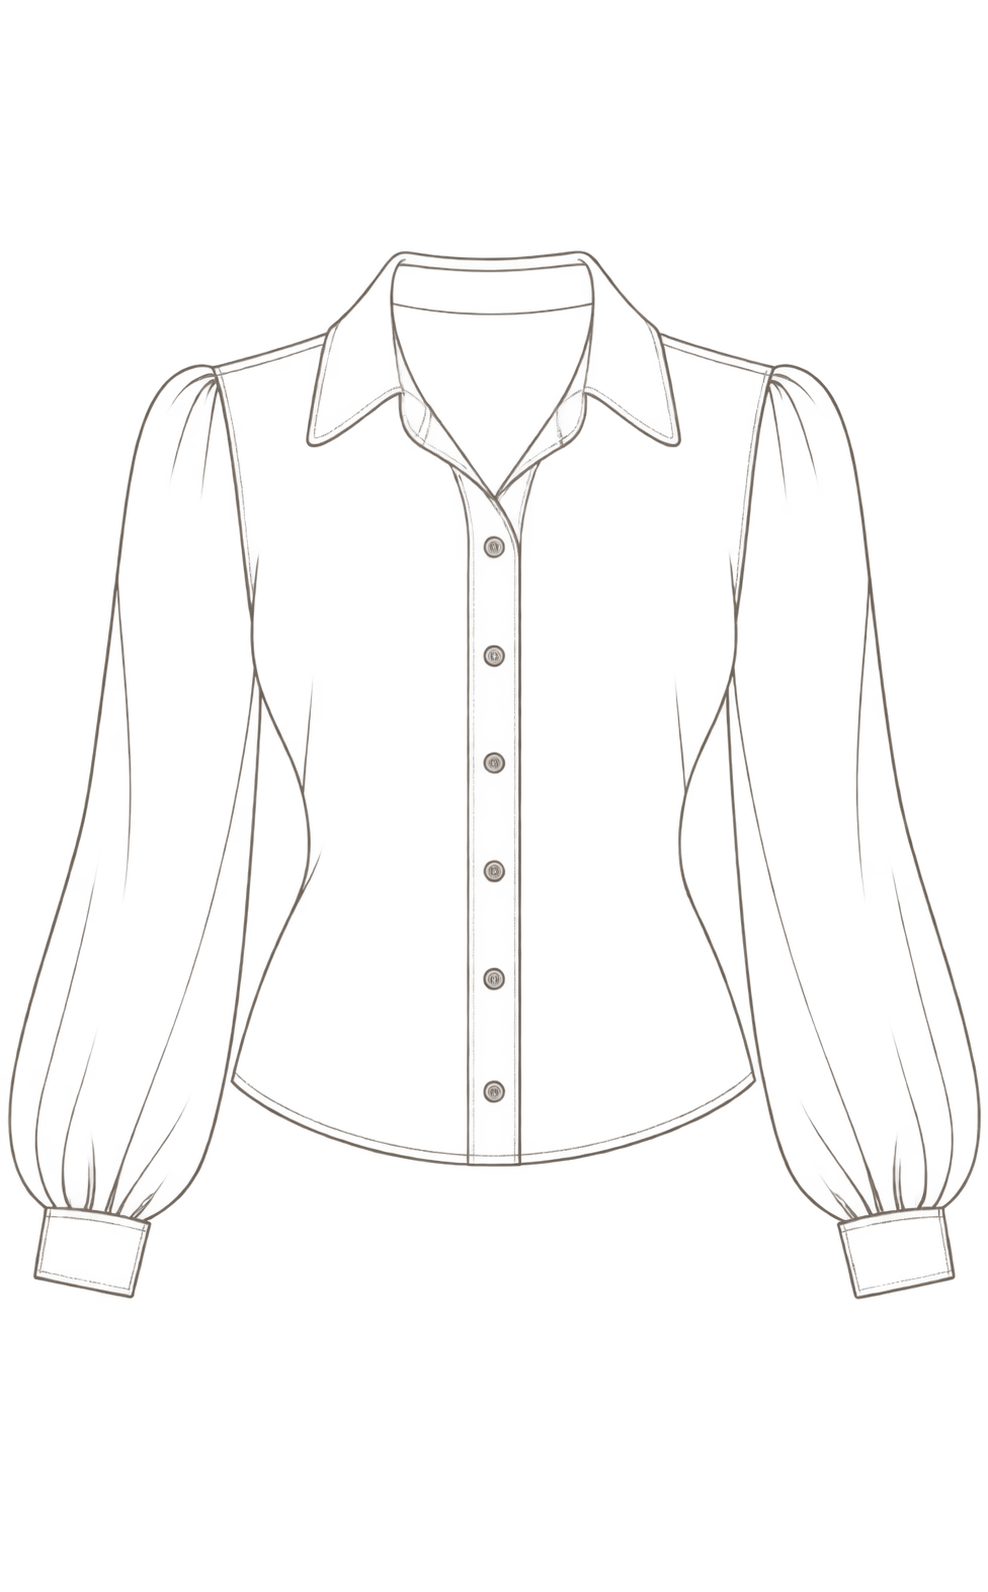
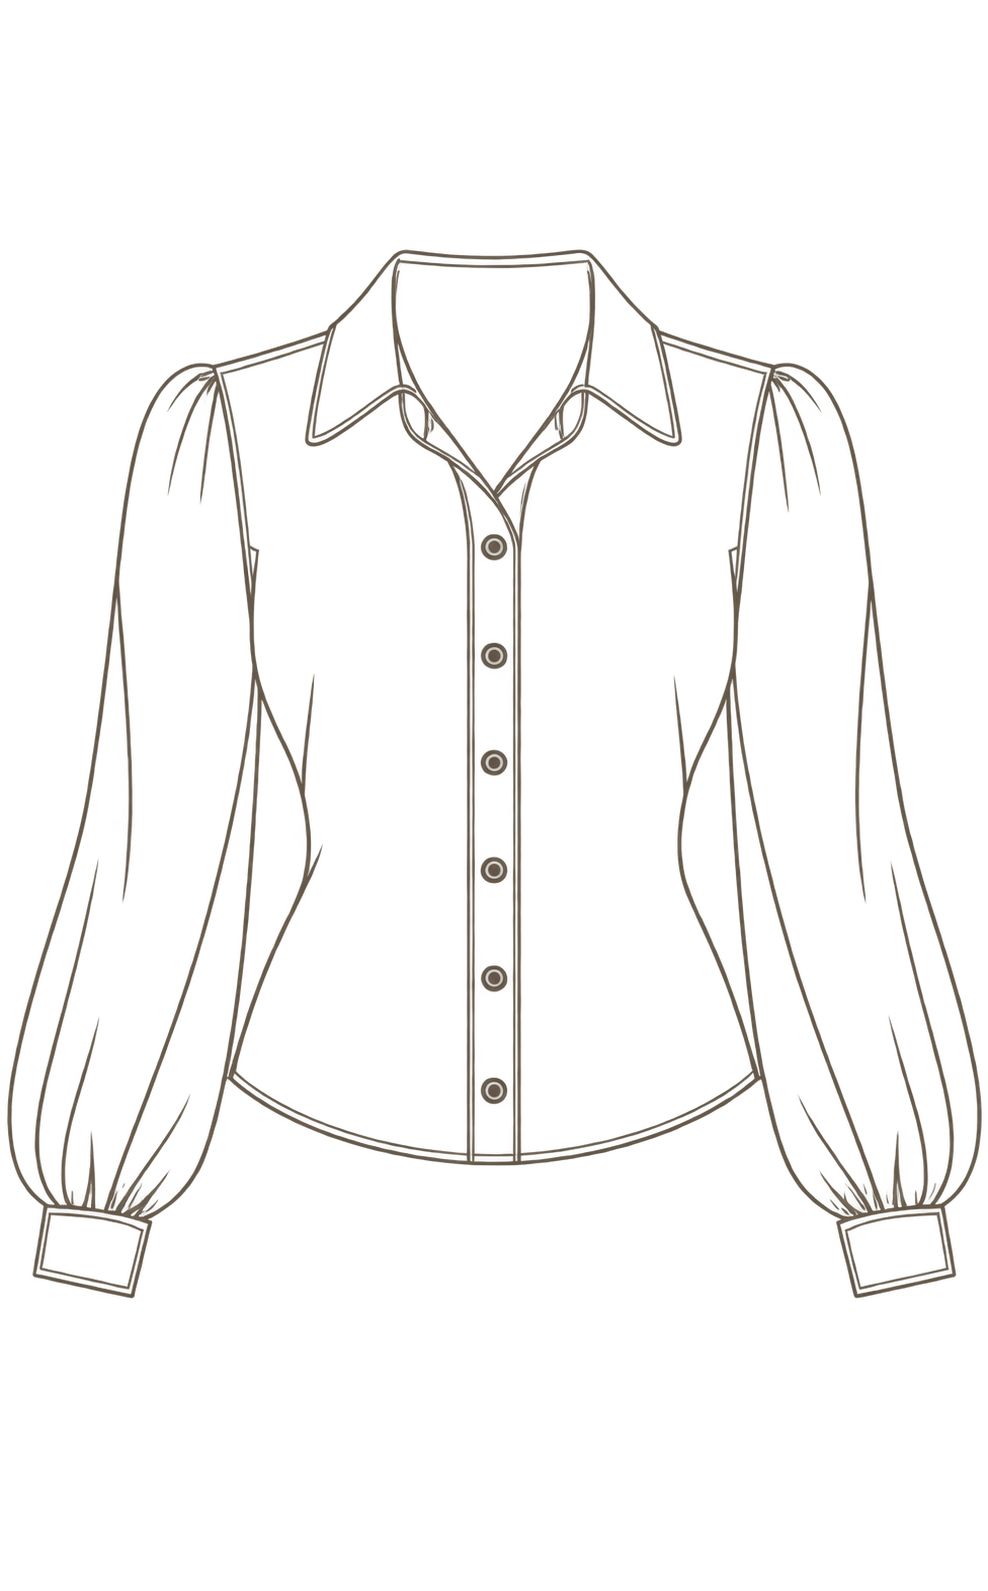
Refine blouse neck opening and visible fingertips

diff --git a/src/components/styling-silhouettes.tsx b/src/components/styling-silhouettes.tsx
@@ -203,6 +203,20 @@ function StylingGarment({
       strokeLinecap="round"
       strokeLinejoin="round"
     >
+      {category === "top" && shape === "blouse" && assets.blouse && (
+        <g
+          data-blouse-hands="true"
+          aria-hidden="true"
+          fill="#EAE5DF"
+          stroke="#BEB7AF"
+          strokeWidth={0.7}
+        >
+          {/* Wrist roots sit under the cuffs; a quiet thumb and joined fingers show below. */}
+          <path d="M99 282 L111 284 C110 289 111 293 113 298 L116 303 Q117 306 115 307 Q113 308 111 304 L109 300 L110 311 Q110 315 107 315 C102 313 98 307 97 302 Q95 294 99 282Z" />
+          <path d="M261 282 L249 284 C250 289 249 293 247 298 L244 303 Q243 306 245 307 Q247 308 249 304 L251 300 L250 311 Q250 315 253 315 C258 313 262 307 263 302 Q265 294 261 282Z" />
+          <path d="M100 302 Q101 309 106 312 M260 302 Q259 309 254 312" fill="none" strokeOpacity={0.35} />
+        </g>
+      )}
       <SilhouetteAssetLayer asset={assets[shape]} color={color}>
         <g fill={color} stroke={ink} strokeOpacity={0.27} strokeWidth={1.1}>
           <path d={pattern.outline} />

diff --git a/src/lib/silhouette-assets.ts b/src/lib/silhouette-assets.ts
@@ -10,6 +10,8 @@ export type SilhouetteAsset = {
   mode: "mask" | "image";
   /** Optional transparent linework / fixed-color details, aligned to src. */
   detailsSrc?: string;
+  /** Garment opening in the shared SVG coordinates; clips fill and fixed linework together. */
+  cutoutPath?: string;
   /** Override only for cropped artwork; default is the shared 360 × 580 canvas. */
   frame?: typeof SILHOUETTE_FRAME;
 };
@@ -36,6 +38,8 @@ export const SILHOUETTE_ASSETS: SilhouetteAssets = {
       mode: "mask",
       src: "/silhouettes/top/blouse-mask.png",
       detailsSrc: "/silhouettes/top/blouse-lines.png",
+      cutoutPath:
+        "M170.31 90.65 L189.69 90.65 L191.97 96.73 L197.1 98.63 C199.57 111.74 193.68 127.13 180 139.1 C166.32 127.13 160.43 111.74 162.9 98.63 L168.03 96.73Z",
       frame: { x: 86.14, y: 46, width: 187.72, height: 302.48 },
     },
   },

diff --git a/src/components/silhouette-asset.tsx b/src/components/silhouette-asset.tsx
@@ -31,7 +31,20 @@ export function SilhouetteAssetLayer({
   );
 
   return (
-    <g data-silhouette-asset={asset.src}>
+    <g
+      data-silhouette-asset={asset.src}
+      clipPath={asset.cutoutPath ? `url(#${id}-opening)` : undefined}
+    >
+      {asset.cutoutPath && (
+        <defs>
+          <clipPath id={`${id}-opening`} clipPathUnits="userSpaceOnUse">
+            <path
+              clipRule="evenodd"
+              d={`M${frame.x} ${frame.y} h${frame.width} v${frame.height} h${-frame.width}Z ${asset.cutoutPath}`}
+            />
+          </clipPath>
+        </defs>
+      )}
       {asset.mode === "mask" ? (
         <>
           <defs>
